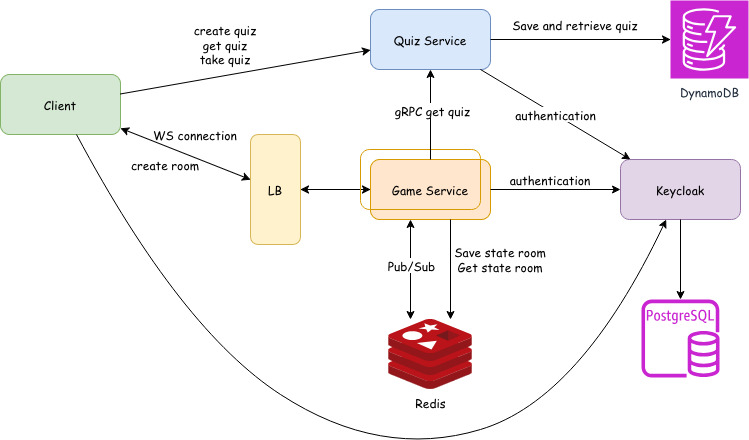
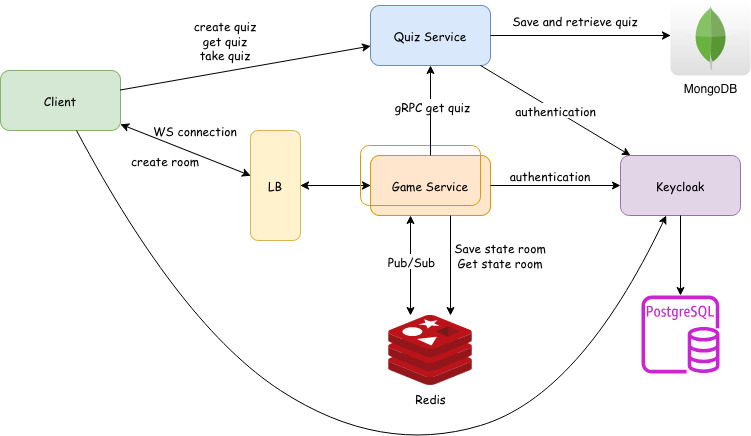
Update README.md

diff --git a/README.md b/README.md
@@ -4,7 +4,7 @@
 ![React](https://img.shields.io/badge/React-20232A?style=for-the-badge&logo=react&logoColor=61DAFB)
 ![Redis](https://img.shields.io/badge/Redis-DC382D?style=for-the-badge&logo=redis&logoColor=white)
 ![Docker](https://img.shields.io/badge/Docker-2496ED?style=for-the-badge&logo=docker&logoColor=white)
-![AWS](https://img.shields.io/badge/AWS-232F3E?style=for-the-badge&logo=amazon-aws&logoColor=white)
+![MongoDB](https://img.shields.io/badge/MongoDB-%234ea94b.svg?style=for-the-badge&logo=mongodb&logoColor=white)
 
 A real-time multiplayer quiz platform where users can create, join, and compete in interactive challenges. Built with a distributed microservices architecture to handle persistent quiz data and low-latency game states.
 
@@ -42,7 +42,7 @@ The system is designed as a distributed set of services:
 
 **Real-time:** WebSockets for bi-directional client-server communication.
 
-**DynamoDB**: Scalable NoSQL for quiz storage.
+**MongoDB**: Scalable NoSQL for quiz storage.
 
 **Redis**: In-memory store for game session state and real-time messaging.
 
